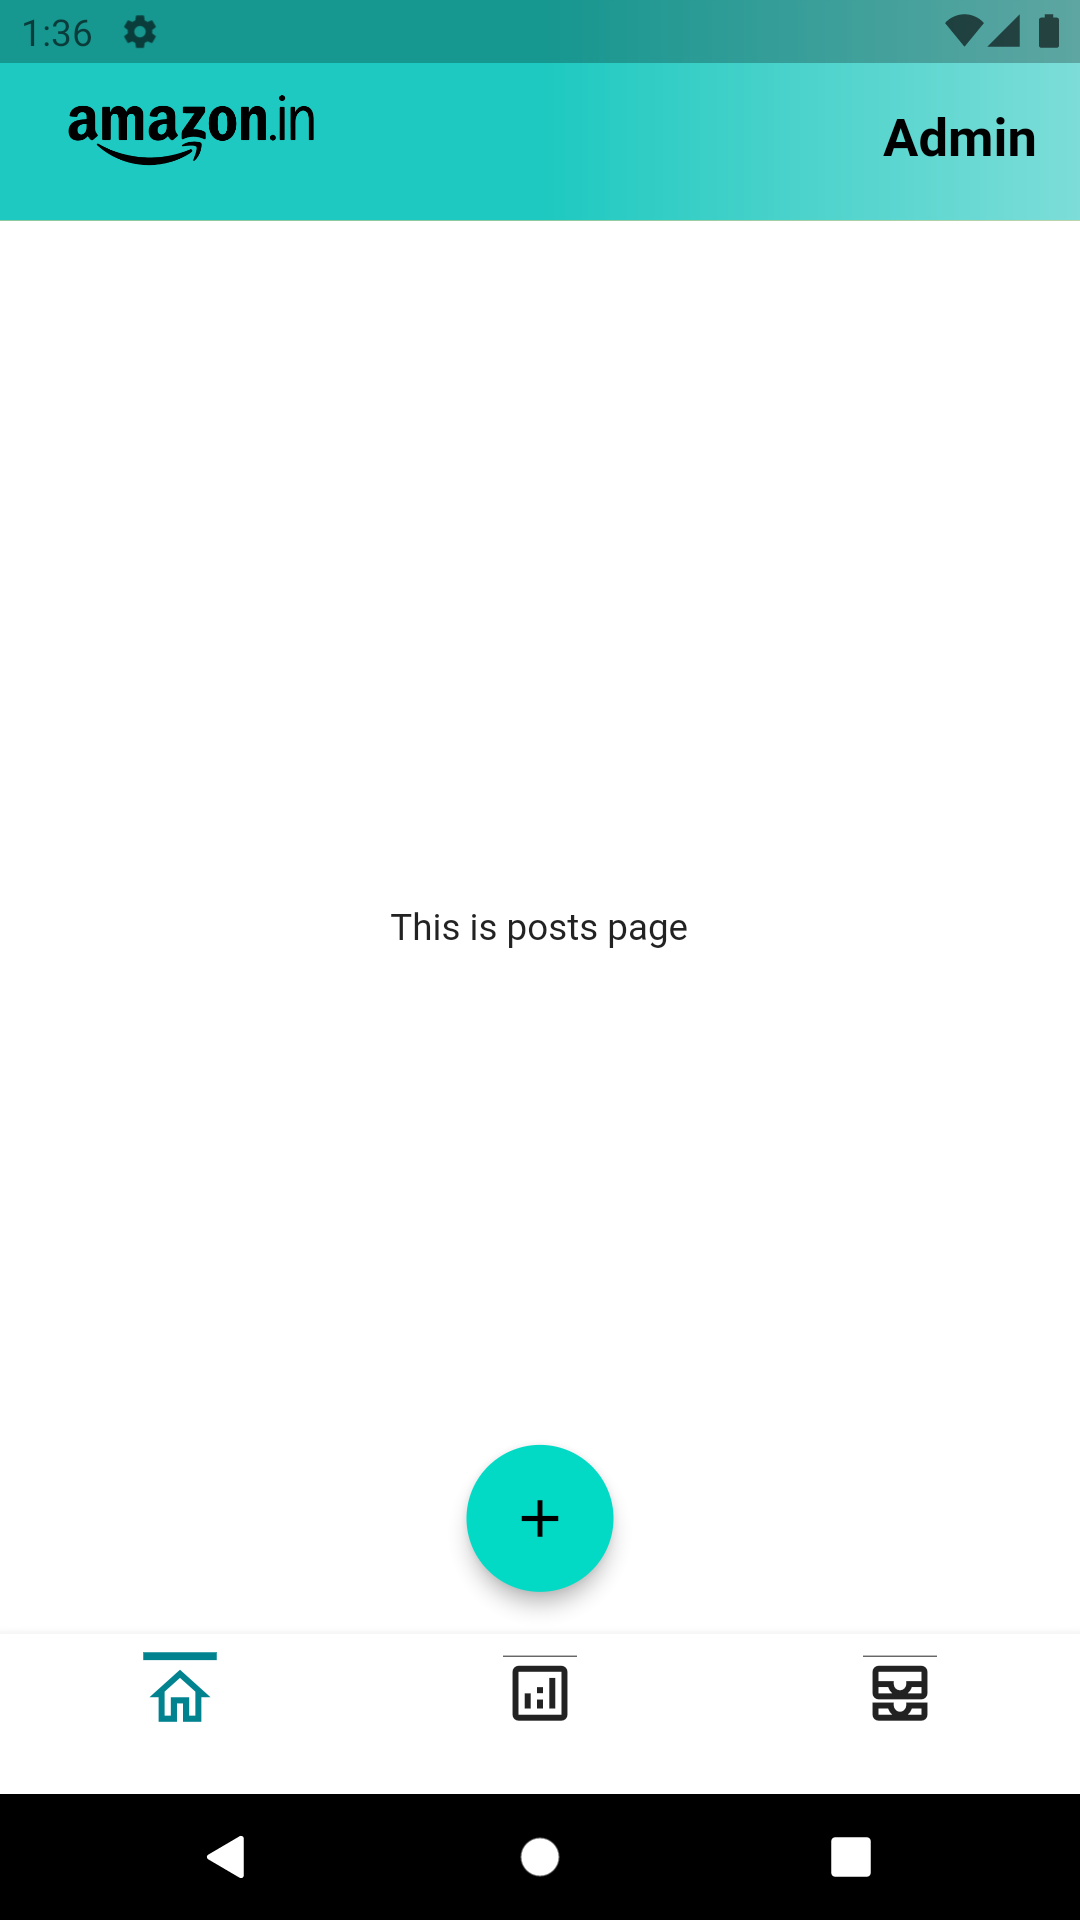
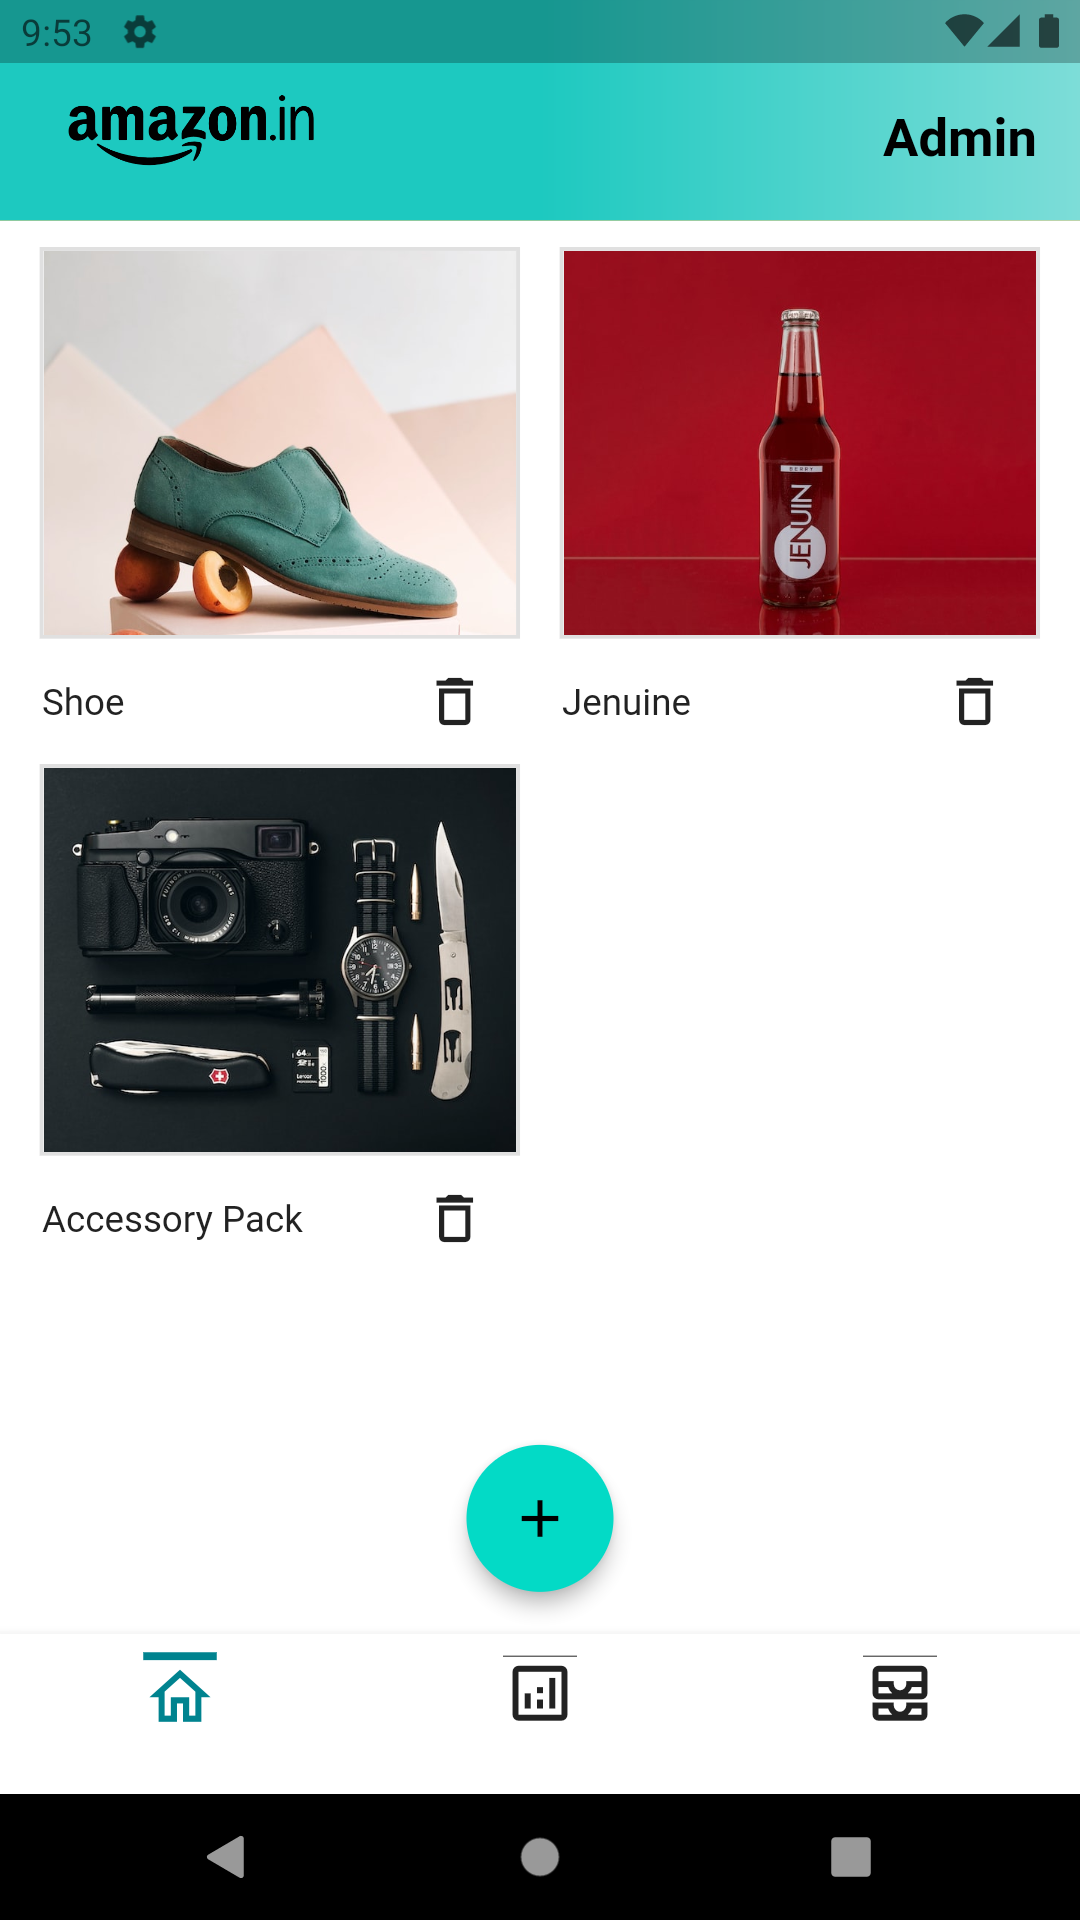
feat: show added products at admin home page

diff --git a/lib/features/admin/widgets/products_widget.dart b/lib/features/admin/widgets/products_widget.dart
@@ -1,4 +1,7 @@
 import 'package:flutter/material.dart';
+import 'package:your_shop_app/common/widgets/single_product.dart';
+import 'package:your_shop_app/features/admin/services/admin_services.dart';
+import 'package:your_shop_app/models/product.dart';
 
 class ProductsScreen extends StatefulWidget {
   const ProductsScreen({Key? key}) : super(key: key);
@@ -8,12 +11,80 @@ class ProductsScreen extends StatefulWidget {
 }
 
 class _ProductsScreenState extends State<ProductsScreen> {
+  final AdminServices adminServices = AdminServices();
+  List<Product>? productsList;
+
+  @override
+  void initState() {
+    super.initState();
+    getAllProducts();
+  }
+
+  Future<void> getAllProducts() async {
+    productsList = await adminServices.getProducts(context);
+    setState(() {});
+  }
+
   @override
   Widget build(BuildContext context) {
-    return const Center(
-      child: Text(
-        'This is products page',
-      ),
-    );
+    return productsList == null
+        ? const Center(
+            child: CircularProgressIndicator(),
+          )
+        : Padding(
+            padding: const EdgeInsets.only(
+              left: 8.0,
+              top: 10,
+              right: 8,
+            ),
+            child: GridView.builder(
+              itemCount: productsList!.length,
+              gridDelegate: const SliverGridDelegateWithFixedCrossAxisCount(
+                crossAxisSpacing: 1,
+                crossAxisCount: 2,
+              ),
+              itemBuilder: (BuildContext context, int index) {
+                Product productItem = productsList![index];
+                return SizedBox(
+                  height: 400,
+                  width: 250,
+                  child: Column(
+                    children: [
+                      Expanded(
+                        child: SingleProduct(
+                          src: productItem.images[0],
+                        ),
+                      ),
+                      Padding(
+                        padding: const EdgeInsets.only(
+                          left: 8,
+                          top: 0,
+                          right: 8,
+                          bottom: 0,
+                        ),
+                        child: Row(
+                          children: [
+                            Expanded(
+                              child: Text(
+                                productItem.name,
+                                overflow: TextOverflow.ellipsis,
+                                maxLines: 2,
+                              ),
+                            ),
+                            IconButton(
+                              onPressed: () {},
+                              icon: const Icon(
+                                Icons.delete_outline,
+                              ),
+                            ),
+                          ],
+                        ),
+                      ),
+                    ],
+                  ),
+                );
+              },
+            ),
+          );
   }
 }

diff --git a/lib/features/admin/services/admin_services.dart b/lib/features/admin/services/admin_services.dart
@@ -1,3 +1,4 @@
+import 'dart:convert';
 import 'dart:io';
 import 'package:flutter/material.dart';
 import 'package:cloudinary_public/cloudinary_public.dart';
@@ -74,5 +75,47 @@ class AdminServices {
         text: e.toString(),
       );
     }
+  }
+
+  Future<List<Product>> getProducts(
+    BuildContext context,
+  ) async {
+    final userProvider = Provider.of<UserProvider>(context, listen: false);
+    List<Product> products = [];
+    try {
+      http.Response res = await http.get(
+        Uri.parse('$myIpUrl/admin/getProducts'),
+        headers: <String, String>{
+          'Content-Type': 'application/json; charset=UTF-8',
+          'x-auth-token': userProvider.getUser.token,
+        },
+      );
+
+      responseHandler(
+        response: res,
+        context: context,
+        onSuccess: () {
+          List<dynamic> productsList = jsonDecode(res.body)['products'];
+          for (var i = 0; i < productsList.length; i++) {
+            productsList[i]['quantity'] =
+                productsList[i]['quantity'].toDouble();
+            productsList[i]['price'] = productsList[i]['price'].toDouble();
+
+            products.add(
+              Product.fromJson(
+                jsonEncode(productsList[i]),
+              ),
+            );
+          }
+        },
+      );
+    } catch (e) {
+      showSnackBar(
+        context: context,
+        text: e.toString(),
+      );
+    }
+
+    return products;
   }
 }

diff --git a/server/routes/admin.js b/server/routes/admin.js
@@ -7,9 +7,16 @@ const UserModel = require('../models/userSchema');
 const adminRouter = express.Router();
 
 //api for selling product
-adminRouter.get('/admin/sellProduct', checkIsAdmin, async (req, res) => {
+adminRouter.post('/admin/sellProduct', checkIsAdmin, async (req, res) => {
     try {
-        const { name, description, imagesUrlList, quantity, price, category } = req.body;
+        const {
+            name: name,
+            description: description,
+            images: imagesUrlList,
+            quantity: quantity,
+            price: price,
+            category: category
+        } = req.body;
         let product = new ProductModel({
             name: name,
             description: description,
@@ -26,6 +33,24 @@ adminRouter.get('/admin/sellProduct', checkIsAdmin, async (req, res) => {
         return res
             .status(500)
             .json({ error: error.message })
+    }
+})
+
+//API for getting products
+adminRouter.get('/admin/getProducts', checkIsAdmin, async (req, res) => {
+    try {
+        const products = await ProductModel.find({});
+        res
+            .status(200)
+            .json({
+                products: products,
+            })
+
+    } catch (error) {
+        return res
+            .status(500)
+            .json({ error: error.message })
+
     }
 })
 

diff --git a/lib/features/admin_add_product/screens/add_products_screen.dart b/lib/features/admin_add_product/screens/add_products_screen.dart
@@ -7,7 +7,7 @@ import 'package:your_shop_app/common/widgets/custom_button.dart';
 import 'package:your_shop_app/common/widgets/custom_textfield.dart';
 import 'package:your_shop_app/constants/global_variables.dart';
 import 'package:your_shop_app/features/admin_add_product/services/add_image.dart';
-import 'package:your_shop_app/features/admin_add_product/services/admin_services.dart';
+import 'package:your_shop_app/features/admin/services/admin_services.dart';
 
 class AddProductsScreen extends StatefulWidget {
   static const String routeName = '/add_product';

diff --git a/lib/models/product.dart b/lib/models/product.dart
@@ -4,7 +4,7 @@ class Product {
   final String name;
   final String description;
   final double quantity;
-  final List<String> images;
+  final List<dynamic> images;
   final String category;
   final double price;
   String? id;
